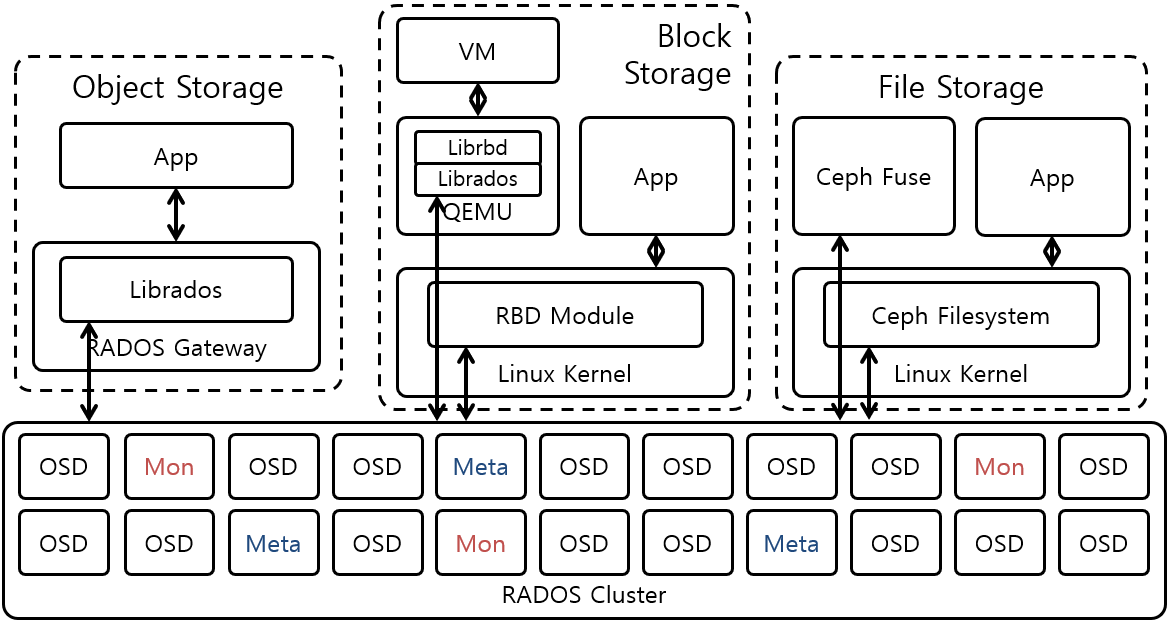
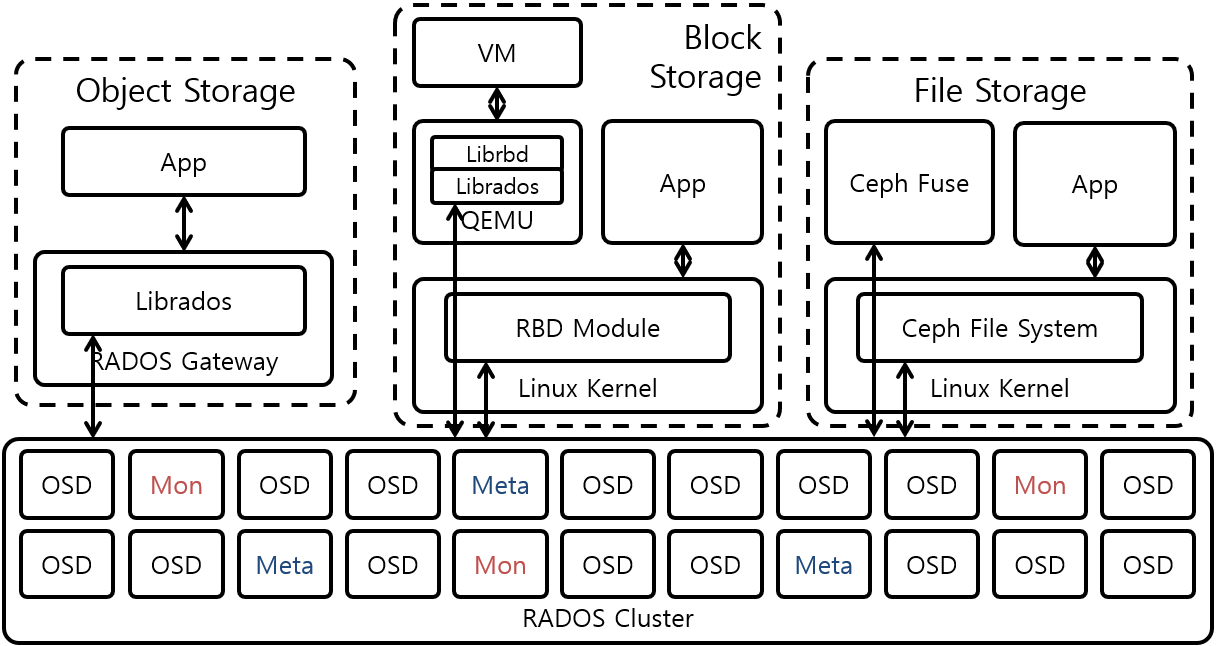
Update Ceph

diff --git a/_docs/theory_analysis/Ceph.md b/_docs/theory_analysis/Ceph.md
@@ -17,23 +17,52 @@ Ceph는 Ojbect Storage 기반 분산 Storage이다. Object Storage이지만 File
 
 #### 1.1. Storage Type
 
-* Ceph Object Storage - Ceph가 Object Storage로 동작할때는 RADOS Gateway가 RADOS Cluster의 Client 역활 및 Object Storage의 Proxy 역활을 수행한다. RADOS Gateway는 RADOS Cluster 제어를 도와주는 Librados를 이용하여 Object를 저장하고 제어한다. App은 RADOS Gateway의 REST API를 이용하여 Data를 저장한다. RADOS Gateway는 동시에 여러대가 운영될 수 있으며 Single Point of Failure를 막기 위해서 다수의 RADOS Gateway를 운영하는 것이 좋다. RADOS Gateway간의 Load Balancing은 Ceph에서 제공하지 않고, 별도의 Load Balancer를 이용해야 한다. 
+Ceph는 Object Storage, Block Storage, File Storage 3가지 Type의 Storage를 제공한다.
 
-* Block Storage - Ceph가 Block Storage로 동작할때는 Linux Kernel의 RDB Module이나, Librados 기반의 Librbd이 RADOS Cluster의 Client가 된다. Kernel은 RBD Module을 통해 RADOS Cluster로부터 Block Storage를 할당받고 이용 할 수 있다. QEMU는 Librbd를 통해서 VM에게 줄 Block Storage를 할당 받을 수 있다.
+##### 1.1.1. Object Storage
 
-* File Storage - Ceph가 File Storage로 동작할때는 Linux Kernel의 Ceph Filesystem이나 Ceph Fuse Daemon이 RADOS Cluster의 Client가 된다. Ceph Filesystem이나 Ceph Fuse를 통해서 Linux Kernel은 Ceph File Storage를 Mount 할 수 있다.
+Ceph가 Object Storage로 동작할때는 RADOS Gateway가 RADOS Cluster의 Client 역활 및 Object Storage의 Proxy 역활을 수행한다. RADOS Gateway는 RADOS Cluster 제어를 도와주는 Librados를 이용하여 Object를 저장하고 제어한다. App은 RADOS Gateway의 REST API를 이용하여 Data를 저장한다. REST API는 Account 관련 기능과 File System의 폴더 역활을 수행하는 Bucket을 관리하는 기능을 제공하며, AWS S3와 OpenStack의 Swift와 호환되는 특징을 갖는다.
+
+RADOS Gateway는 동시에 여러대가 운영될 수 있으며 Single Point of Failure를 막기 위해서 다수의 RADOS Gateway를 운영하는 것이 좋다. RADOS Gateway간의 Load Balancing은 Ceph에서 제공하지 않고, 별도의 Load Balancer를 이용해야 한다.
+
+##### 1.1.2. Block Storage
+
+Ceph가 Block Storage로 동작할때는 Linux Kernel의 RDB Module이나, Librados 기반의 Librbd이 RADOS Cluster의 Client가 된다. Kernel은 RBD Module을 통해 RADOS Cluster로부터 Block Storage를 할당받고 이용 할 수 있다. QEMU는 Librbd를 통해서 VM에게 줄 Block Storage를 할당 받을 수 있다.
+
+##### 1.1.3. File Storage 
+
+Ceph가 File Storage로 동작할때는 Linux Kernel의 Ceph File System이나 Ceph Fuse Daemon이 RADOS Cluster의 Client가 된다. Ceph Filesystem이나 Ceph Fuse를 통해서 Linux Kernel은 Ceph File Storage를 Mount 할 수 있다.
 
 #### 1.2. RADOS Cluster
 
-##### 1.2.1. OSD
+RADOS Cluster는 OSD(Object Storage Daemon), Monitor, MDS(Meta Data Server) 3가지로 구성되어 있다.
+
+##### 1.2.1. OSD (Object Storage Daemon)
+
+OSD는 Disk에 Object의 형태로 Data를 저장하는 Daemon이다. brctl, xfs, ext4 Filesystem으로 Format된 Disk마다 별도의 OSD가 동작한다. 최신 버전 Ceph의 OSD는 별도의 Filesystem을 이용하지 않고 Disk를 직접 제어하는 형태로도 동작이 가능하다.
 
 ##### 1.2.2. Monitor
 
-##### 1.2.3. MDS
+Monitor는 OSD의 상태를 관리하는 Daemon이다. Monitor는 OSD 상태를 주기적으로 감시하면서 **Cluster Map**을 생성하고 관리한다. OSD Client는 Monitor가 가지고 있는 Cluster Map 정보를 바탕으로 CRUSH MAP 알고리즘을 이용하여 원하는 Object가 어느 OSD에 있는지 파악하게 된다.
 
-#### 1.3. CRUSH MAP
+Monitor는 동시에 여러대가 운영될 수 있으며 Single Point of Failure를 막기 위해서 다수의 Monitor를 운영하는것이 좋다. Monitor는 **Paxos** 알고리즘을 이용하여 다수의 Monitor가 운영될 시 Monitor간의 Consensus를 맞춘다.
+
+##### 1.2.3. MDS (Meta Data Server)
+
+MDS는 POSIX 호환 File System를 제공하기 위해 필요한 Meta Data를 저장하는 Daemon으로, Ceph가 File Storage로 동작할때만 필요하다. Directory 계층 구조, Owner, Timestamp같은 File의 Meta 정보들을 저장하고 있다. 
+
+#### 1.3. Read/Write
+
+##### 1.3.1. Read
+
+##### 1.3.2. Write
+
+#### 1.4. CRUSH MAP
+
+#### 1.5. Security
 
 ### 2. 참조
 
 * [http://docs.ceph.com/docs/master/architecture/](http://docs.ceph.com/docs/master/architecture/)
+* [http://docs.ceph.com/docs/jewel/rados/configuration/mon-config-ref/](http://docs.ceph.com/docs/jewel/rados/configuration/mon-config-ref/)
 * [https://www.slideshare.net/sageweil1/20150222-scale-sdc-tiering-and-ec](https://www.slideshare.net/sageweil1/20150222-scale-sdc-tiering-and-ec)
